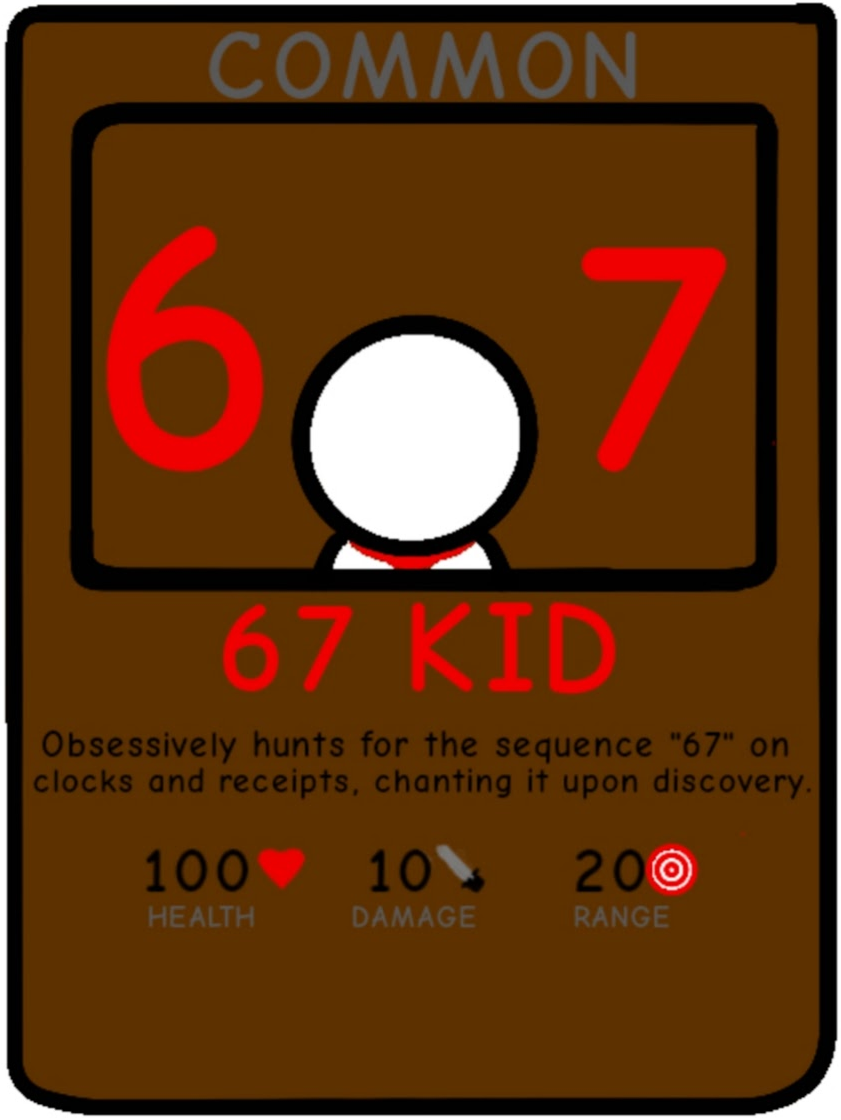
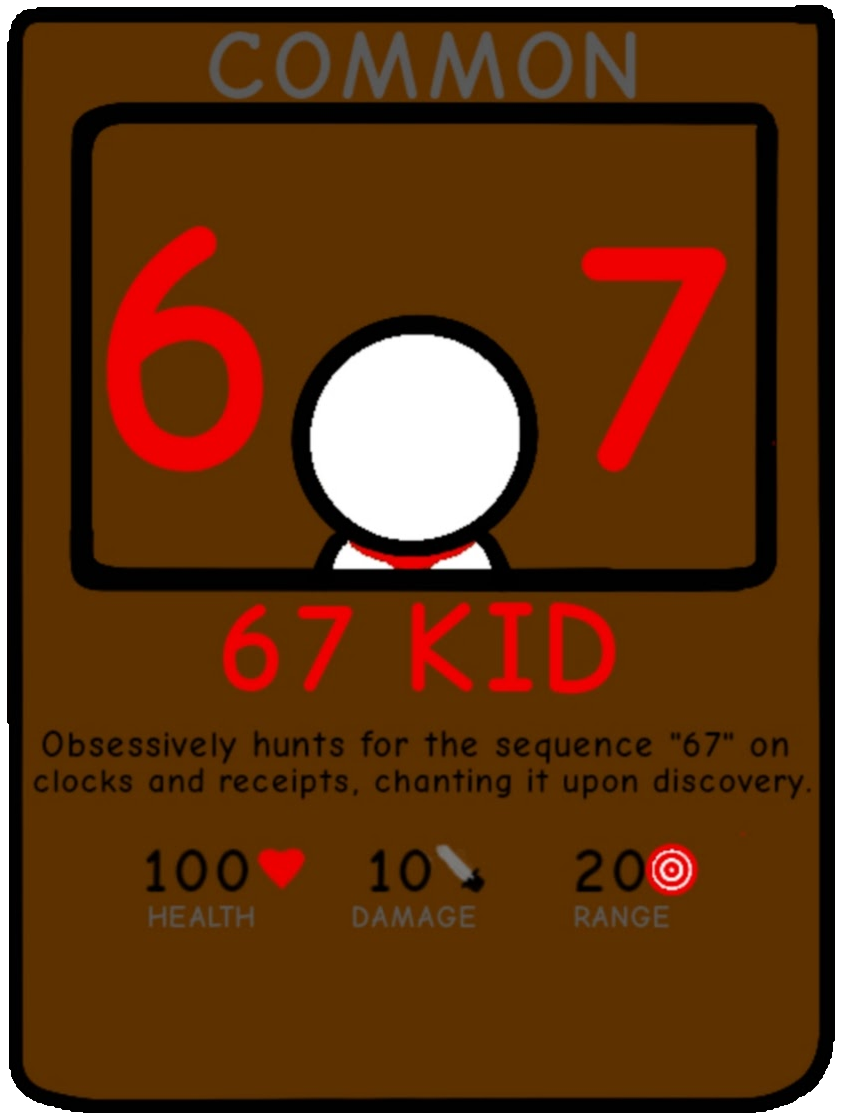
Fix card image halo, restyle Gacha inspired by new reference
The "white outline" was a real defect: JPEG anti-aliasing left a thin
light-grey transition ring around the card's entire black border
between it and the flood-filled background. Corner-only transparency
missed it. Re-did the background removal by flood-filling from all
four edges, then dilating that mask by 3px before applying alpha, so
the halo ring gets eaten along with the background. Applied the same
treatment to the Units slot art.

Gacha: got a third reference (colored, no pedestal, thick yellow
frame around both wheels, plain white/black spin buttons) with
instructions to take inspiration rather than embed it directly. Added
a yellow frame wrapping both wheels and switched the spin buttons from
the gold gradient to plain white/black, while keeping our own wheel
rendering, pedestals, and mode-pill toggle.

Changed region(s): [[0.9893, 0.0, 1.0, 0.9375], [0.0, 0.0312, 0.0309, 0.9688]]

diff --git a/apps/teacher-tower-defence/src/styles.css b/apps/teacher-tower-defence/src/styles.css
@@ -874,6 +874,14 @@ html, body {
   border: 2px solid var(--gold);
   background: transparent;
 }
+/* A thick yellow frame around both wheels, matching the player's own
+   reference — the single biggest thing that made the screen feel
+   "finished" instead of two wheels floating loose on the card. */
+.ttd-gacha-frame {
+  border: 6px solid #ffd400;
+  border-radius: 18px;
+  padding: clamp(16px, 3vh, 32px) clamp(12px, 3vw, 28px);
+}
 .ttd-gacha-wheels-row {
   display: flex;
   justify-content: center;
@@ -933,6 +941,8 @@ html, body {
 .ttd-pull-row-3 .ttd-pull-btn { padding: 14px 8px; }
 .ttd-pull-row-3 .ttd-pull-btn-label { font-size: 15px; }
 .ttd-gacha-fullscreen .ttd-pull-row-3 .ttd-pull-btn-cost { font-size: 14px; }
+/* Plain white/black buttons, matching the player's own reference —
+   instead of the gold-gradient pill used everywhere else in the game. */
 .ttd-pull-btn {
   flex: 1 1 0;
   display: flex;
@@ -940,17 +950,17 @@ html, body {
   align-items: center;
   gap: 4px;
   padding: 12px 10px;
-  border-radius: 12px;
-  border: 2px solid rgba(255, 215, 92, 0.7);
-  background: linear-gradient(165deg, #ffe98a, #ffd75c 45%, #f0a52c);
-  color: #2a1a04;
+  border-radius: 10px;
+  border: 3px solid #1a1a1a;
+  background: #ffffff;
+  color: #1a1a1a;
   cursor: pointer;
-  box-shadow: 0 4px 0 #8a5c14, 0 8px 16px rgba(255, 215, 92, 0.22);
+  box-shadow: 0 4px 0 #1a1a1a;
   transition: transform 110ms ease, filter 110ms ease;
 }
-.ttd-pull-btn:hover:not(:disabled) { transform: translateY(-2px); filter: brightness(1.06); }
-.ttd-pull-btn:active:not(:disabled) { transform: translateY(1px); box-shadow: 0 1px 0 #8a5c14; }
-.ttd-pull-btn:disabled { filter: grayscale(0.6) brightness(0.7); cursor: not-allowed; }
+.ttd-pull-btn:hover:not(:disabled) { transform: translateY(-2px); filter: brightness(0.97); }
+.ttd-pull-btn:active:not(:disabled) { transform: translateY(1px); box-shadow: 0 1px 0 #1a1a1a; }
+.ttd-pull-btn:disabled { filter: grayscale(0.4) brightness(0.85); cursor: not-allowed; }
 .ttd-pull-btn-label { font-family: 'Baloo 2', sans-serif; font-weight: 800; font-size: 14px; }
 .ttd-pull-btn-cost { font-size: 12px; font-weight: 700; opacity: 0.8; }
 

diff --git a/apps/teacher-tower-defence/src/main.js b/apps/teacher-tower-defence/src/main.js
@@ -414,7 +414,8 @@ function renderSummonTab(body) {
   const row = el('div', { class: 'ttd-gacha-wheels-row' });
   row.appendChild(buildWheelColumn(false));
   row.appendChild(buildWheelColumn(true));
-  body.appendChild(row);
+  const frame = el('div', { class: 'ttd-gacha-frame' }, [row]);
+  body.appendChild(frame);
 
   if (lastPullResults) {
     const reveal = el('div', { class: 'ttd-pull-reveal' });
